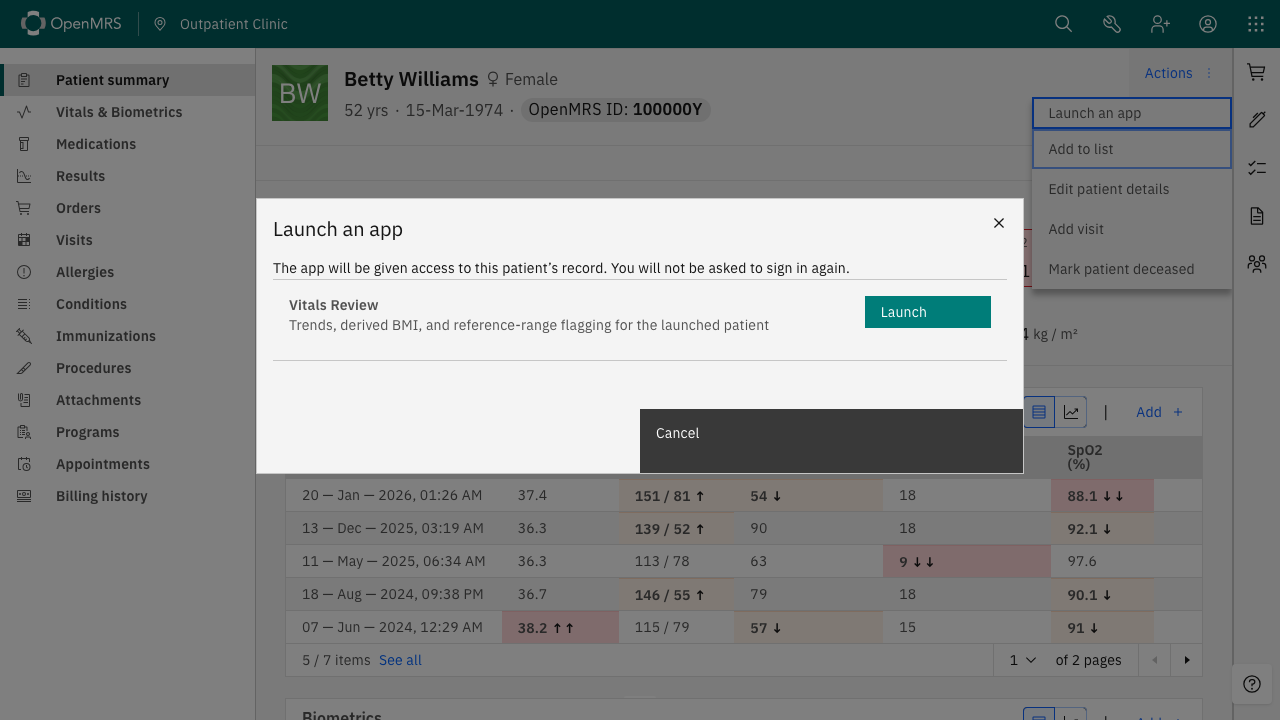
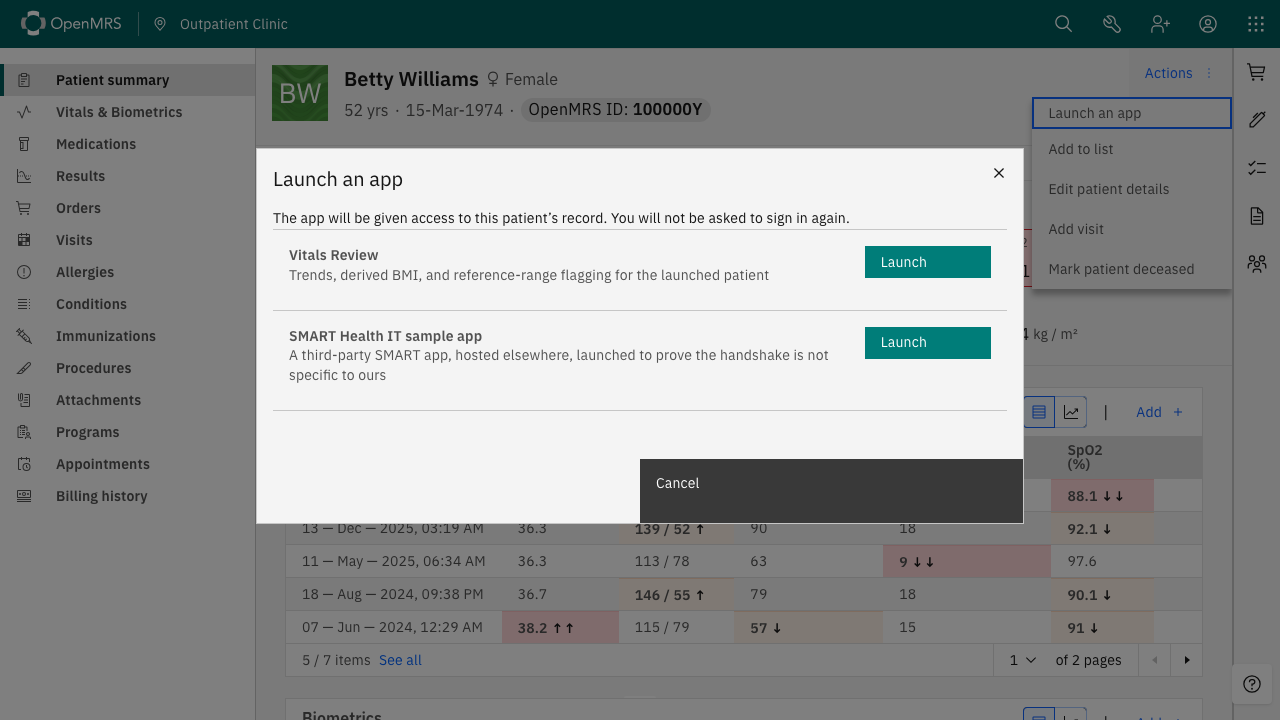
Let the realm register apps we did not write

Changed region(s): [[0.1875, 0.1833, 0.8125, 0.55], [0.1875, 0.55, 0.8125, 0.7333], [0.9375, 0.2139, 0.9688, 0.2444]]

diff --git a/docs/architecture.md b/docs/architecture.md
@@ -199,3 +199,47 @@ app reads; the **access token**, so a resource server can see which patient a to
 **id_token**, which is where `fhirUser` goes. Every note is rewritten on every launch — blank where a
 launch establishes nothing — because the session outlives a single launch and a stale note would hand the
 next app the previous patient.
+
+## Launching an application this project did not write
+
+The point of SMART is that the server does not care whose application it is. That was tested with
+[SMART Health IT's sample app](https://launch.smarthealthit.org/sample-app/launch.html) — hosted
+elsewhere, written by someone else, and not adjustable by us.
+
+Two changes were needed on the server side, both in the realm:
+
+- **A client whose id the app actually sends.** That app sends `client_id=whatever`, literally, so a
+  public client with that id exists in the realm with `https://launch.smarthealthit.org/*` as a redirect
+  URI and PKCE `S256` required.
+- **The wildcard scopes it asks for.** It requests `patient/*.*` and `user/*.*`, and Keycloak refuses
+  any scope that does not exist as a client scope — it will not expand a wildcard. Both are defined as
+  empty markers, and **only on that client**: `smartClient` still answers `invalid_scope` for them, which
+  is deliberate. Nothing here enforces scopes, so a granted wildcard grants nothing today; the day
+  enforcement lands it becomes a claim that must be honoured or withdrawn.
+
+With those in place the launch works up to the last hop:
+
+```
+302  localhost/openmrs/ms/smartEhrLaunchServlet?appId=…&patientId=…
+200  launch.smarthealthit.org/sample-app/launch.html?iss=http://localhost/openmrs/ws/fhir2/R4&launch=…
+```
+
+The registry resolved a third-party app, minted a launch handle and handed the browser over; the app
+loaded and began the handshake. It then stopped, and the reason is worth recording because it is not a
+conformance failure:
+
+```
+Access to fetch at 'http://localhost/openmrs/ws/fhir2/R4/.well-known/smart-configuration'
+from origin 'https://launch.smarthealthit.org' has been blocked by CORS policy:
+Permission was denied for this request to access the `loopback` address space.
+```
+
+That is the browser's private-network rule: a page served from the public internet may not reach
+`localhost`, whatever CORS headers the server sends. Ours are correct — a preflight from that origin is
+answered with `Access-Control-Allow-Origin: *` and the `Authorization` header permitted, and `curl`
+completes the request — but a browser refuses before CORS is consulted.
+
+So a hosted third-party app can launch against a deployment on a routable hostname and cannot launch
+against this one on a laptop. To demonstrate it locally, self-host the application so both ends are
+loopback. The realm keeps the client and the scopes, because they are what a deployment needs; the app is
+deliberately **not** in `backend/smart-apps.json`, so it does not appear in the chart menu and then fail.
